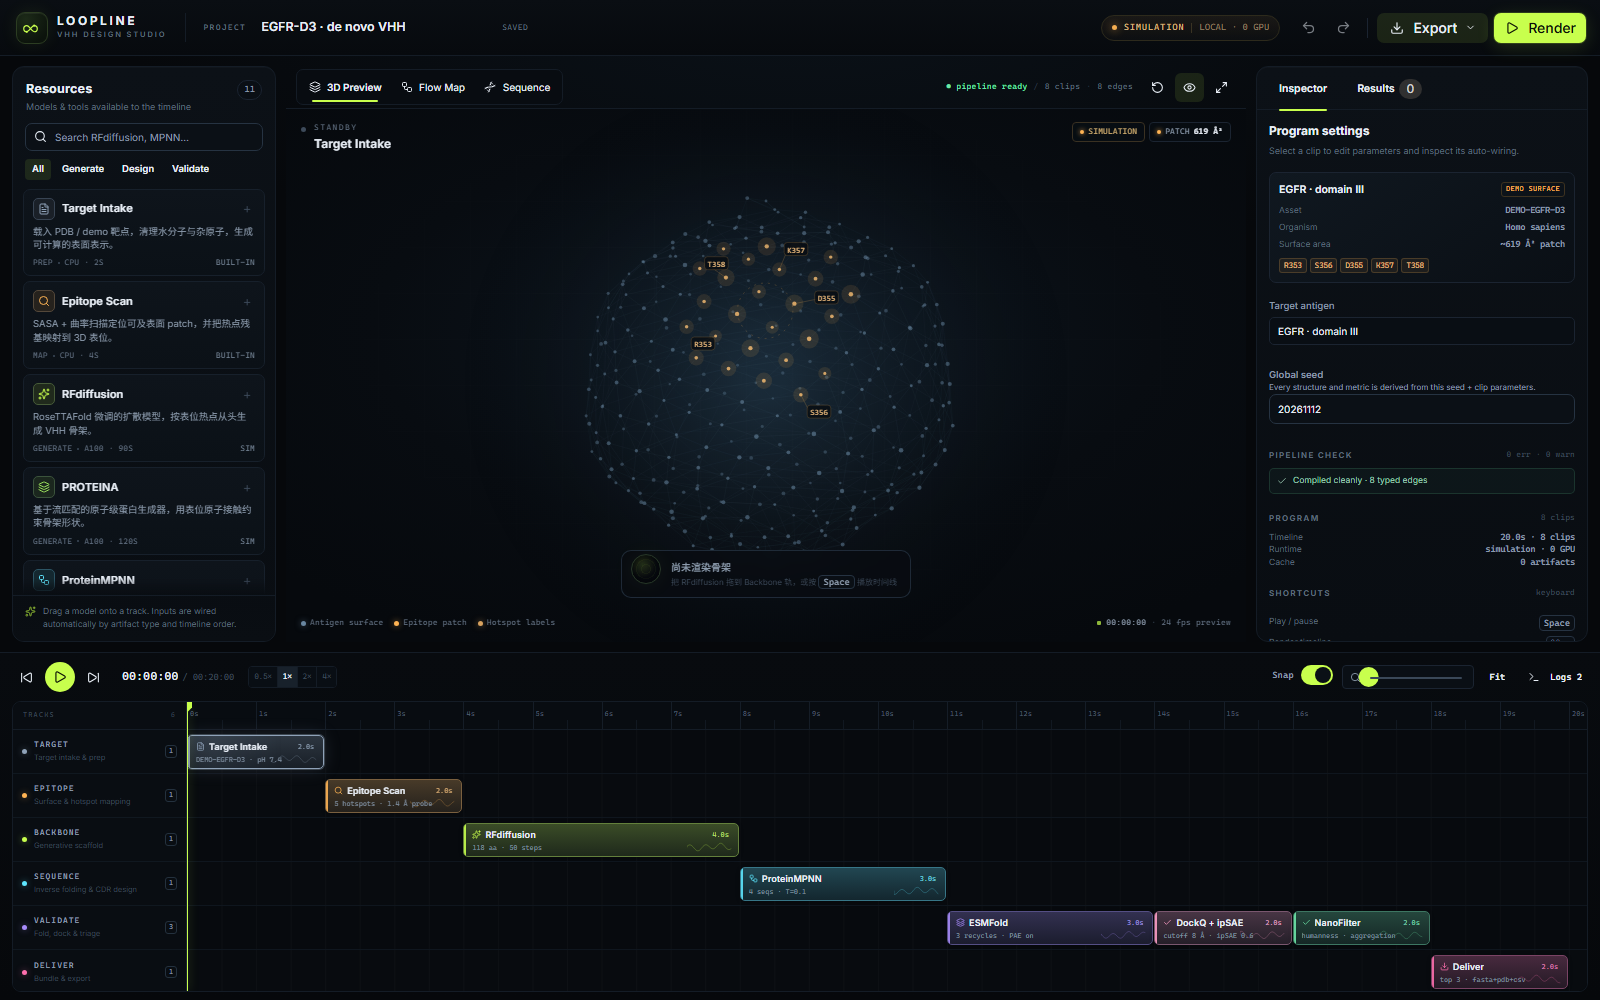
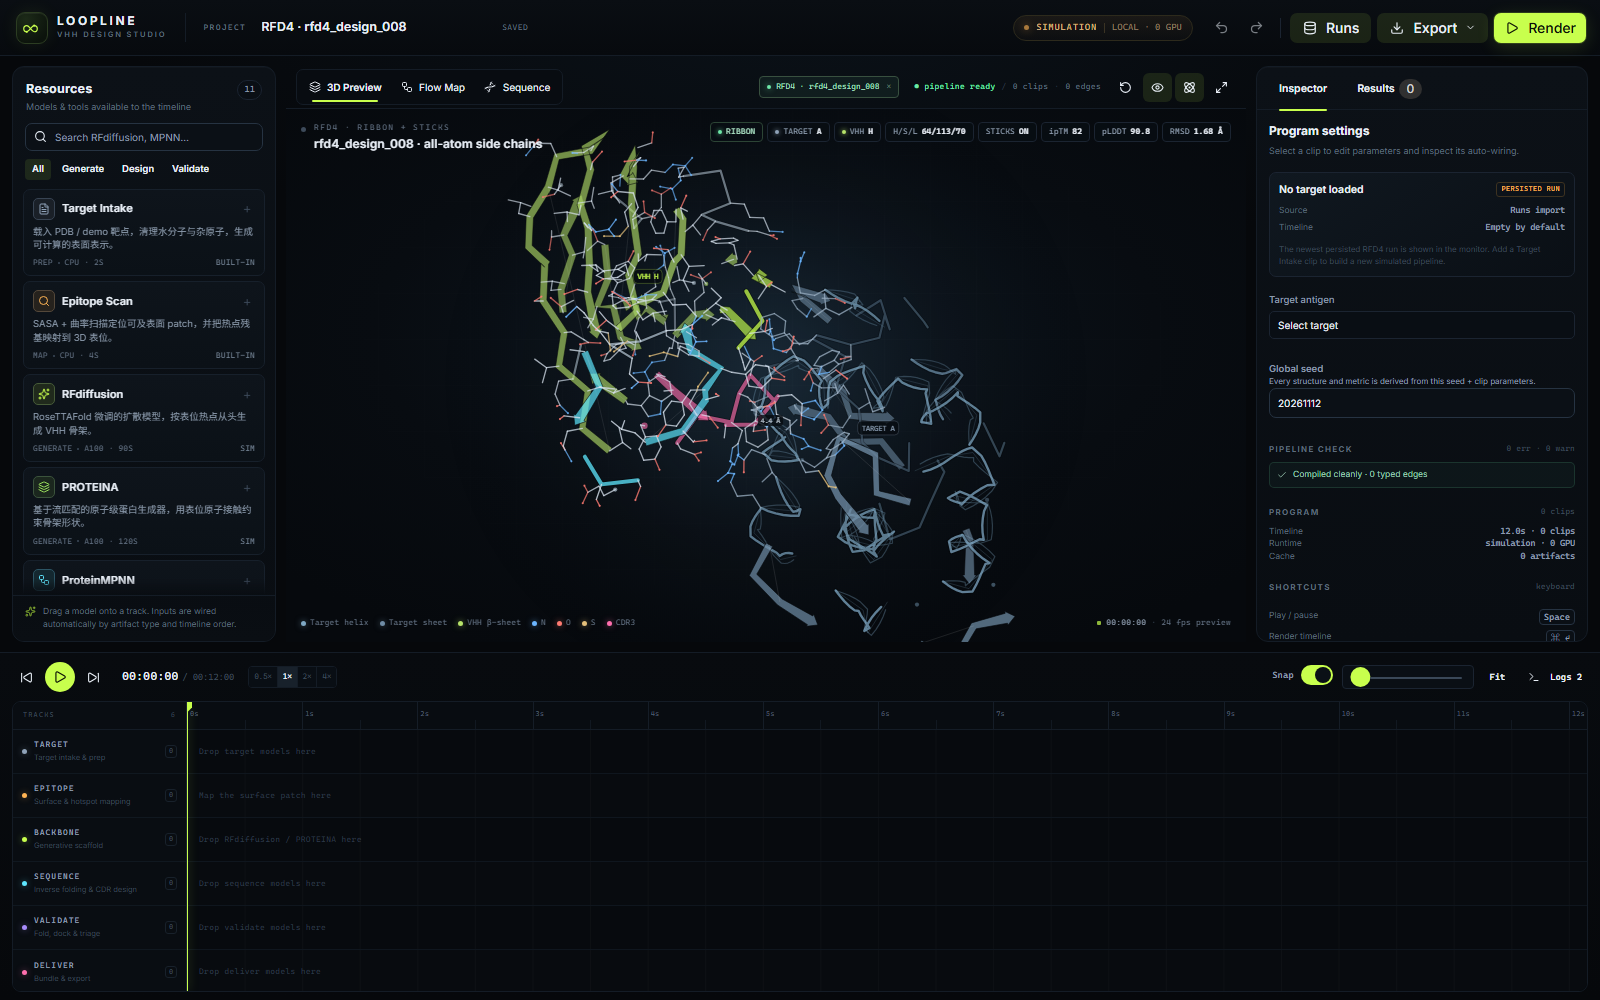
Remove EGFR demo default and boot into persisted run

diff --git a/src/components/Inspector.tsx b/src/components/Inspector.tsx
@@ -140,24 +140,39 @@ function ProjectView({ app }: { app: any }) {
       <div className="ins-empty-title">Program settings</div>
       <div className="ins-empty-sub">Select a clip to edit parameters and inspect its auto-wiring.</div>
 
-      <div className="project-card">
-        <div className="pc-top">
-          <span className="pc-name">{target.name}</span>
-          <span className="pc-tag">DEMO SURFACE</span>
+      {target ? (
+        <div className="project-card">
+          <div className="pc-top">
+            <span className="pc-name">{target.name}</span>
+            <span className="pc-tag">DEMO SURFACE</span>
+          </div>
+          <div className="pc-rows">
+            <div className="pc-row"><span>Asset</span><b>{target.pdb}</b></div>
+            <div className="pc-row"><span>Organism</span><b>{target.organism}</b></div>
+            <div className="pc-row"><span>Surface area</span><b>~{preview.structure.epitope.area.toLocaleString()} Å² patch</b></div>
+          </div>
+          <div className="epitope-chips">
+            {target.hotspots.map((h: string) => <span className="res-chip" key={h}>{h}</span>)}
+          </div>
         </div>
-        <div className="pc-rows">
-          <div className="pc-row"><span>Asset</span><b>{target.pdb}</b></div>
-          <div className="pc-row"><span>Organism</span><b>{target.organism}</b></div>
-          <div className="pc-row"><span>Surface area</span><b>~{preview.structure.epitope.area.toLocaleString()} Å² patch</b></div>
+      ) : (
+        <div className="project-card project-card-empty">
+          <div className="pc-top">
+            <span className="pc-name">No target loaded</span>
+            <span className="pc-tag">PERSISTED RUN</span>
+          </div>
+          <div className="pc-rows">
+            <div className="pc-row"><span>Source</span><b>Runs import</b></div>
+            <div className="pc-row"><span>Timeline</span><b>Empty by default</b></div>
+          </div>
+          <p className="project-empty-note">The newest persisted RFD4 run is shown in the monitor. Add a Target Intake clip to build a new simulated pipeline.</p>
         </div>
-        <div className="epitope-chips">
-          {target.hotspots.map((h: string) => <span className="res-chip" key={h}>{h}</span>)}
-        </div>
-      </div>
+      )}
 
       <div className="field ll-native-field" style={{ marginTop: 12 }}>
         <div className="field-head"><label>Target antigen</label></div>
-        <select value={target.id} onChange={(e) => app.setTarget(e.target.value)}>
+        <select value={target?.id || ''} onChange={(e) => e.target.value && app.setTarget(e.target.value)}>
+          <option value="" disabled>Select target</option>
           {Object.values(TARGETS).map((t: any) => (
             <option value={t.id} key={t.id}>{t.name}</option>
           ))}

diff --git a/src/ui/monitor.js b/src/ui/monitor.js
@@ -1218,6 +1218,76 @@ export class Monitor {
     }
     ctx.restore();
   }
+  drawSidechainSticks(chains, project) {
+    if (!this.app.state.sticks) return;
+    const ctx = this.ctx;
+    const backboneNames = new Set(['N', 'CA', 'C', 'O']);
+    const binderCAs = [];
+    for (const chain of chains) {
+      if (chain.role !== 'binder') continue;
+      for (const res of chain.residues || []) {
+        const ca = res.atoms?.find((a) => a.name === 'CA');
+        if (ca) binderCAs.push(ca);
+      }
+    }
+    const sticks = [];
+    for (const chain of chains) {
+      const isTarget = chain.role === 'target';
+      for (const res of chain.residues || []) {
+        const ca = res.atoms?.find((a) => a.name === 'CA');
+        if (!ca) continue;
+        if (isTarget) {
+          let near = false;
+          for (const b of binderCAs) {
+            if ((ca.x - b.x) ** 2 + (ca.y - b.y) ** 2 + (ca.z - b.z) ** 2 < 81) {
+              near = true;
+              break;
+            }
+          }
+          if (!near) continue;
+        }
+        const atomMap = new Map((res.atoms || []).map((a) => [a.name, a]));
+        for (const [nameA, nameB] of res.bonds || []) {
+          const a = atomMap.get(nameA);
+          const b = atomMap.get(nameB);
+          if (!a || !b) continue;
+          if (backboneNames.has(nameA) && backboneNames.has(nameB)) continue;
+          const pa = project(a);
+          const pb = project(b);
+          const element = b.element === 'N' || b.element === 'O' || b.element === 'S'
+            ? b.element
+            : a.element === 'N' || a.element === 'O' || a.element === 'S' ? a.element : 'C';
+          const color = element === 'N' ? '#6cb6ff' : element === 'O' ? '#ff7b72' : element === 'S' ? '#e5c07b'
+            : (isTarget ? '#9db1c4' : '#d7e2ee');
+          sticks.push({
+            a: pa, b: pb, color,
+            alpha: 0.44 + ((pa.depth + pb.depth) / 2) * 0.56,
+            z: (pa.z + pb.z) / 2,
+            atom: element,
+          });
+        }
+      }
+    }
+    sticks.sort((x, y) => x.z - y.z);
+    ctx.save();
+    ctx.lineCap = 'round';
+    for (const stick of sticks) {
+      ctx.strokeStyle = rgba(stick.color, stick.alpha);
+      ctx.lineWidth = 1.35;
+      ctx.beginPath();
+      ctx.moveTo(stick.a.x, stick.a.y);
+      ctx.lineTo(stick.b.x, stick.b.y);
+      ctx.stroke();
+      if (stick.atom !== 'C') {
+        ctx.fillStyle = rgba(stick.color, stick.alpha);
+        ctx.beginPath();
+        ctx.arc(stick.b.x, stick.b.y, 1.1, 0, Math.PI * 2);
+        ctx.fill();
+      }
+    }
+    ctx.restore();
+  }
+
   /* =============================== REAL RFD4 =============================== */
   drawReal3D() {
     const ctx = this.ctx;

diff --git a/src/App.tsx b/src/App.tsx
@@ -110,6 +110,29 @@ export function App() {
     };
   }, [app]);
 
+  // Default view: the newest persisted RFD4 run, not the old EGFR-D3 demo.
+  useEffect(() => {
+    let cancelled = false;
+    (async () => {
+      try {
+        const { runs = [] } = await api<{ runs: any[] }>('/api/runs?limit=1');
+        if (!runs.length) return;
+        const detail = await api<any>(`/api/runs/${encodeURIComponent(runs[0].id)}`);
+        const best = detail.designs?.[0];
+        if (!best) return;
+        const structure = await api<any>(`/api/designs/${encodeURIComponent(best.id)}/structure`);
+        if (cancelled) return;
+        app.setRealDesign(structure);
+        app.setProjectName(`RFD4 · ${best.designId}`);
+      } catch (error: any) {
+        console.warn('Could not load persisted run:', error.message);
+      }
+    })();
+    return () => {
+      cancelled = true;
+    };
+  }, [app]);
+
   return (
     <div id="app" className="ll-root">
       <Topbar app={app} onOpenRuns={() => setRunsOpen(true)} />

diff --git a/src/engine/models.js b/src/engine/models.js
@@ -439,7 +439,8 @@ const TEMPLATE_DEFS = [
 ];
 
 export function listTemplates() {
-  return TEMPLATE_DEFS.map((d) => ({ id: d.id, name: d.name, meta: d.meta, color: d.color, target: d.target, clips: d.clips.length }));
+  // The EGFR de novo walkthrough is kept only as an internal test fixture.
+  return TEMPLATE_DEFS.filter((d) => d.id !== 'egfr-denovo').map((d) => ({ id: d.id, name: d.name, meta: d.meta, color: d.color, target: d.target, clips: d.clips.length }));
 }
 
 export function instantiateTemplate(id) {
@@ -475,5 +476,19 @@ export function makeProject(templateId = 'egfr-denovo') {
 }
 
 export function defaultProject() {
-  return makeProject('egfr-denovo');
+  return {
+    schema: 'loopline.project/1',
+    id: `prj_${Date.now().toString(36)}`,
+    name: 'Untitled VHH program',
+    seed: 20261112,
+    fps: 24,
+    target: null,
+    clips: [],
+    playhead: 0,
+    duration: 12,
+    view: '3d',
+    createdAt: new Date().toISOString(),
+    runtime: 'simulation',
+    version: 1,
+  };
 }

diff --git a/src/styles.css b/src/styles.css
@@ -546,6 +546,7 @@ kbd {
 .pc-rows { margin-top: 7px; display: flex; flex-direction: column; gap: 4px; }
 .pc-row { display: flex; justify-content: space-between; gap: 8px; font-size: 8.5px; color: var(--dim); }
 .pc-row b { font-family: var(--mono); font-weight: 500; color: var(--muted); text-align: right; }
+.project-empty-note { margin: 9px 0 0; font-size: 8px; line-height: 1.5; color: var(--faint); }
 .cdr3-block { margin: 4px 0 8px; padding: 6px 7px; border-radius: 5px; background: #090e14; border: 1px solid var(--line-soft); }
 .cdr3-block span { font-family: var(--mono); font-size: 7px; letter-spacing: .4px; color: var(--dim); text-transform: uppercase; }
 .cdr3-block b { display: block; margin-top: 3px; font-family: var(--mono); font-size: 8px; line-height: 1.5; font-weight: 500; color: var(--pink); word-break: break-all; }

diff --git a/src/state.js b/src/state.js
@@ -17,6 +17,11 @@ function loadProject() {
     if (raw) {
       const parsed = JSON.parse(raw);
       if (parsed && parsed.schema === 'loopline.project/1' && Array.isArray(parsed.clips)) {
+        // The old EGFR-D3 walkthrough was a demo, not user work.
+        if (parsed.name === 'EGFR-D3 · de novo VHH') {
+          localStorage.removeItem(STORAGE_KEY);
+          return defaultProject();
+        }
         parsed.duration = projectDuration(parsed);
         return parsed;
       }
@@ -399,6 +404,13 @@ export class App {
       }
     });
     this.toast(`Target switched to ${target.short}`);
+  }
+
+  setProjectName(name) {
+    if (!name || this.project.name === name) return;
+    this.project.name = name;
+    this.emit('project');
+    this.saveSoon();
   }
 
   applyTemplate(templateId) {

diff --git a/src/engine/compiler.js b/src/engine/compiler.js
@@ -29,9 +29,8 @@ export function compile(project) {
   const edges = [];
   const completed = [];
 
-  if (!clips.length) {
-    errors.push({ code: 'empty', message: 'Timeline is empty. Drag a model onto a track to start.', clipId: null });
-  }
+  // An empty timeline is a valid blank program; the monitor can still show a
+  // persisted RFD4 run.
 
   for (const clip of clips) {
     const model = MODEL_BY_ID[clip.modelId];

diff --git a/src/components/BackendDrawer.tsx b/src/components/BackendDrawer.tsx
@@ -128,6 +128,7 @@ export function BackendDrawer({ app, open, onClose }: { app: any; open: boolean;
     try {
       const structure = await api<any>(`/api/designs/${encodeURIComponent(design.id)}/structure`);
       app.setRealDesign(structure);
+      app.setProjectName(`RFD4 · ${design.designId}`);
       app.toast(`Loaded ${design.designId} into the monitor`);
       onClose();
     } catch (err: any) {

diff --git a/docs/DESIGN.md b/docs/DESIGN.md
@@ -148,9 +148,9 @@ Tamarind Bio：`POST /api/submit-job` 提交 `rfd4-proteina`，`GET /api/jobs?jo
 ```json
 {
   "schema": "loopline.project/1",
-  "name": "EGFR-D3 · de novo VHH",
+  "name": "PD-L1 · epitope-locked VHH",
   "seed": 20261112,
-  "target": { "name": "EGFR domain III", "source": "demo", "hotspots": ["R353", "S356", "D355", "K357"] },
+  "target": { "name": "PD-L1 IgV", "source": "demo", "hotspots": ["Y56", "E58", "R113", "M115"] },
   "tracks": ["target", "epitope", "backbone", "sequence", "validate", "deliver"],
   "clips": [
     {
@@ -172,7 +172,7 @@ Tamarind Bio：`POST /api/submit-job` 提交 `rfd4-proteina`，`GET /api/jobs?jo
 
 **做**
 - 时间线：拖入模型、横向移动、跨轨移动、右边缘裁剪、吸附、缩放、播放头 scrub、删除/复制、撤销重做。
-- 6 条轨道、11 个模型 / 工具资源、3 套模板。
+- 6 条轨道、11 个模型 / 工具资源、2 套用户模板。
 - 编译器：类型检查、自动接线、错误/警告、运行前诊断。
 - 播放/渲染：播放头驱动、逐片段计算、进度、日志、结果。
 - 监视器：可旋转缩放的结构视图（抗原表面 + 表位 + VHH 骨架 + 3 个 CDR 环）、Flow Map 工作流视图、Sequence 视图。
@@ -228,7 +228,7 @@ main.tsx
 - `@astryxdesign/core@0.7.16` + `@astryxdesign/theme-neutral` + `@stylexjs/stylex`
 - 自定义主题：`defineTheme({extends: neutralTheme, tokens: …})`
 - 生产：`npm start` 先 `vite build`，由 `server.mjs` 提供 `dist/`；开发：`npm run dev`（Vite HMR）
-- 验证：`npm run typecheck`、`npm test`（15 个引擎 / 后端测试）、`npm run build`、`tools/cdp.mjs` headless 截图
+- 验证：`npm run typecheck`、`npm test`（16 个引擎 / 后端测试）、`npm run build`、`tools/cdp.mjs` headless 截图
 
 ### 8.3 功能清单
 
@@ -236,9 +236,9 @@ main.tsx
 - **编译器**：按开始时间自动接线，缺输入 / 上游未完成 / 同轨重叠 / 越界均有诊断。
 - **运行时**：播放头驱动的 artifact 计算，缓存失效，逐片段日志，2× Render，完成自动切 Results。
 - **监视器**：Canvas 2D 自绘的 3D 示意（抗原表面点云 + 表位 + β-sandwich VHH + CDR 环 + 接触线 + diffusion 粒子）、Flow Map（带自动接线边）、Sequence（残基着色 + CDR 注释 + 三张 dossier 卡）。
-- **资源**：11 个模型 / 工具、6 条轨道、3 套模板（EGFR-D3、PD-L1、HER2）。
+- **资源**：11 个模型 / 工具、6 条轨道、2 套模板（PD-L1、HER2）；EGFR-D3 只保留为内部测试 fixture。
 - **交付**：项目 JSON、FASTA、PDB（CA trace + REMARK）、metrics CSV。
-- **验证**：15 个引擎 / 后端测试；`tools/cdp.mjs` 提供 headless Chrome 截图与交互 smoke test。
+- **验证**：16 个引擎 / 后端测试；`tools/cdp.mjs` 提供 headless Chrome 截图与交互 smoke test。
 
 **明确边界**：当前 `Engine` 使用确定性模拟；结构是程序化示意，指标为模拟值，UI 与导出文件均标注 `SIMULATION`。真实 RFdiffusion / PROTEINA / ProteinMPNN / ESMFold / Boltz 尚未接入；**Tamarind RFD4-Proteina 已在 v0.3 接入**，结果可在 Runs 抽屉查看，也可把真实 backbone ribbon + all-atom side-chain sticks（helix / β-sheet / loop）载入主 Canvas。explicit-H 全原子 ribbon 仍未实现。
 
@@ -271,6 +271,13 @@ events(id, run_id, level, message, created_at)
 ### 9.3 RFD4 闭环
 
 ```
+App boot
+  → GET /api/runs?limit=1
+  → GET /api/runs/:id
+  → GET /api/designs/:id/structure
+  → load best design into Canvas (timeline stays empty)
+  → legacy EGFR-D3 localStorage project is discarded
+
 GET /api/tamarind/jobs
   → pickLatestDesignJob (rfd4-proteina + Complete + Created desc)
   → POST /api/tamarind/import-latest
